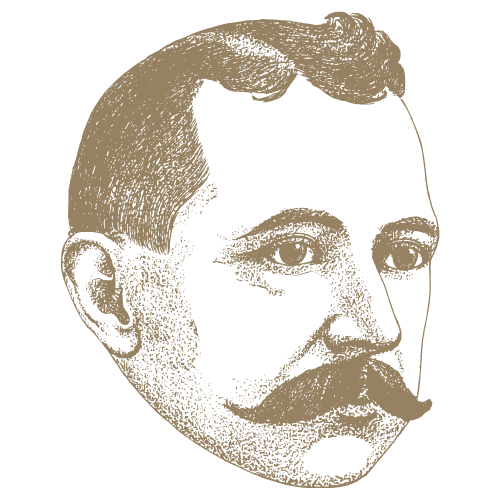
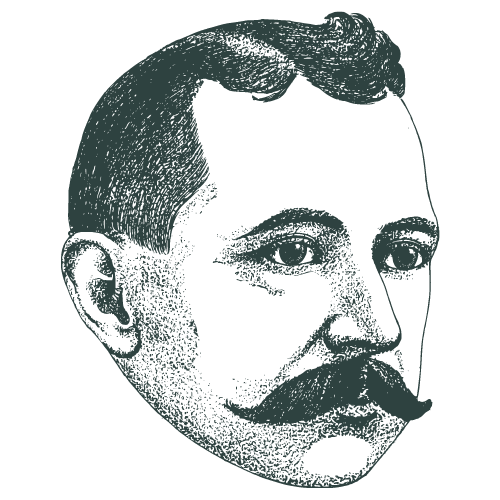
Change colors

Changed region(s): [[0.12, 0.0, 0.9, 0.99], [0.81, 0.21, 0.84, 0.27]]

diff --git a/index.html b/index.html
@@ -17,61 +17,64 @@
     <link rel="stylesheet" href="colorscheme.css">
 </head>
 
-<body>
-    <header class="container">
+<body class="container">
+    <header>
         <nav>
             <ul>
-                <li><strong>RAMESH</strong></li>
+                <li><strong>Indian Improv Suggestions</strong></li>
             </ul>
             <ul>
-                <li><a href="#">Add Your Own</a></li>
-                <li><a href="#">About</a></li>
                 <li><a href="#" id="theme_switcher"></a></li>
+                <li><a role="button" class="outline" href="#">+ Install</a></li>
             </ul>
         </nav>
     </header>
-    <main class="container">
+    <main>
         <article style="text-align: center; max-width: 800px; margin: 0 auto;">
             <div>
-                <img src="RAMESH.png" alt="" width="144" height="114">
+                <img src="RAMESH.png" alt="" width="144" height="114" style="padding-bottom: 10px;">
                 <hgroup>
-                    <h1>Ramesh Suggests</h1>
-                    <h5>Your <span>object</span> is:</h5><br>
+                    <h4>RAMESH SUGGESTS</h4>
+                    <h5>Your <span>object</span> is:</h5>
                 </hgroup>
                 <div>
-                    <h2 style="text-transform: capitalize;"><strong><span id="physical">idli Wada</strong></span></h2>
+                    <h1 style="text-transform: capitalize;"><strong><span id="physical">idli Wada</strong></span></h1>
                     <br><br>
                     <div>
-                        <p role="button" onClick="setTraits();">New Suggestion</p> <br><br>
+                        <p role="button" onClick="setTraits();">New <span>Object</span></p> <br><br>
                     </div>
-                    <h3>Get another...</h3>
+                    <hr style="padding-bottom: 10px;">
+                    <p>Or get another...</p>
                     <div class="grid">
-                        <p class="secondary outline" role="button">Object</p>
-                        <p class="secondary outline" role="button">Location</p>
-                        <p class="secondary outline" role="button">Relationship</p>
+                        <p class="outline" role="button">Location</p>
+                        <p class="outline" role="button">Activity</p>
+                        <p class="outline" role="button">Relationship</p>
                     </div>
                     <div class="grid">
-                        <p class="secondary outline" role="button">Activity</p>
-                        <p class="secondary outline" role="button">Line</p>
-                        <p class="secondary outline" role="button">Character</p>
+                        <p class="outline" role="button">Object</p>
+                        <p class="outline" role="button">Line</p>
+                        <p class="outline" role="button">Occasion</p>
                     </div>
                 </div>
             </div>
         </article>
-        <br><br><br>
-        <footer style="text-align: end;">
-
-            <p>©
-                <script type="text/javascript">
-                    document.write(new Date().getFullYear());
-                </script> Made by <a href="https://gurbax.lol/" target="_blank">Gurbax</a> · <a
-                    href="https://gurbax.lol/contact" target="_blank">Contact</a>
-                <br> <a href="https://github.com/gurbax-lol/CharacterCreator" target="_blank">Source Code</a>, licensed
-                <a href="#" target="_blank">MIT</a>.
-            </p>
-        </footer>
     </main>
 
+    <footer>
+        <p>RAMESH stands for Readily Accessible Manch for Enhancing Spontaneity in Hindi.</p>
+        <p>Thanks to contributions from Assad Khan, Neville Barucha, Sachin Lalwani, and Farzeen Khan. Want to see your
+            name here? Click the button below:</p>
+        <p class="" role="button">Add your suggestion </p>
+
+        <p style="text-align: end;">©
+            <script type="text/javascript">
+                document.write(new Date().getFullYear());
+            </script> Made by <a href="https://gurbax.lol/" target="_blank">Gurbax</a> · <a href="#"
+                target="_blank">About</a> · <a href="https://gurbax.lol/contact" target="_blank">Contact</a>
+            <br> <a href="https://github.com/gurbax-lol/CharacterCreator" target="_blank">Source Code</a>, License:
+            <a href="#" target="_blank">MIT</a>.
+        </p>
+    </footer>
     <script>
         let isLight = true
         const html = document.documentElement

diff --git a/colorscheme.css b/colorscheme.css
@@ -1,36 +1,36 @@
 /* Change colors Here: https://picocss.com/docs/customization.html and update the code below */
 
-/* Indigo Light scheme (Default) */
+/* Deep-orange Light scheme (Default) */
 /* Can be forced with data-theme="light" */
 [data-theme="light"],
 :root:not([data-theme="dark"]) {
-    --primary: #3949ab;
-    --primary-hover: #303f9f;
-    --primary-focus: rgba(57, 73, 171, 0.125);
+    --primary: #f4511e;
+    --primary-hover: #e64a19;
+    --primary-focus: rgba(244, 81, 30, 0.125);
     --primary-inverse: #FFF;
 }
 
-/* Indigo Dark scheme (Auto) */
+/* Deep-orange Dark scheme (Auto) */
 /* Automatically enabled if user has Dark mode enabled */
 @media only screen and (prefers-color-scheme: dark) {
     :root:not([data-theme]) {
-        --primary: #3949ab;
-        --primary-hover: #3f51b5;
-        --primary-focus: rgba(57, 73, 171, 0.25);
+        --primary: #f4511e;
+        --primary-hover: #ff5722;
+        --primary-focus: rgba(244, 81, 30, 0.25);
         --primary-inverse: #FFF;
     }
 }
 
-/* Indigo Dark scheme (Forced) */
+/* Deep-orange Dark scheme (Forced) */
 /* Enabled if forced with data-theme="dark" */
 [data-theme="dark"] {
-    --primary: #3949ab;
-    --primary-hover: #3f51b5;
-    --primary-focus: rgba(57, 73, 171, 0.25);
+    --primary: #f4511e;
+    --primary-hover: #ff5722;
+    --primary-focus: rgba(244, 81, 30, 0.25);
     --primary-inverse: #FFF;
 }
 
-/* Indigo (Common styles) */
+/* Deep-orange (Common styles) */
 :root {
     --form-element-active-border-color: var(--primary);
     --form-element-focus-color: var(--primary-focus);

diff --git a/script.js b/script.js
@@ -46,7 +46,7 @@ const ALL_LOCATIONS = ["shaadi mandap", "rickshaw stand", "passport office", "cr
 
 const ALL_OCCASIONS = ["shaadi", "graduation", "Canadian PR", "arranged marriage meeting",]
 
-const ALL_RELATIONSHIPS = ["doodhwala - client",]
+const ALL_RELATIONSHIPS = ["doodhwala - customer",]
 
 function randomTrait(obj) {
     let keys = Object.keys(obj);  // All keys in obj
